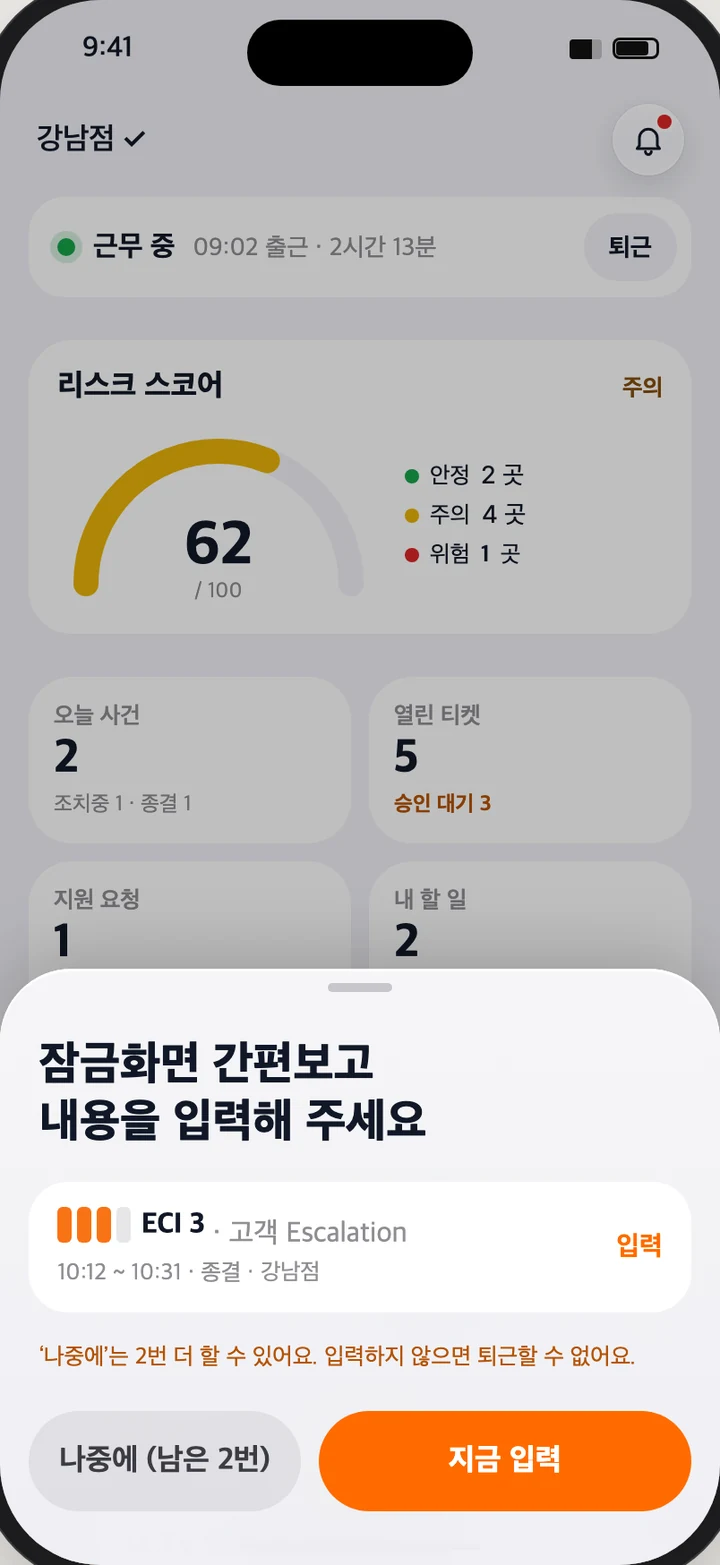
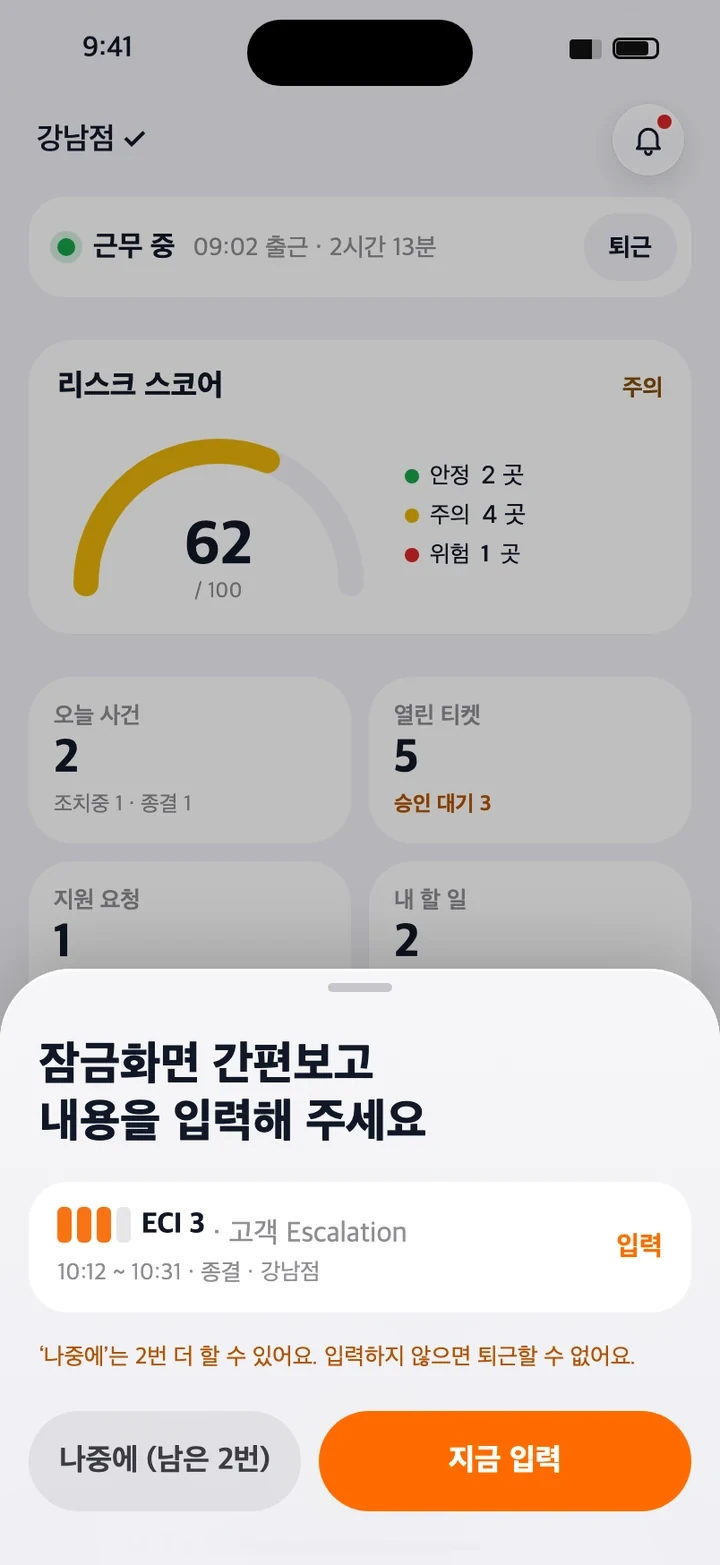
Publish Sentrix Link site 2026-11-09 13:14 KST

diff --git a/static/css/site.css b/static/css/site.css
@@ -137,7 +137,7 @@ button{font:inherit;color:inherit;cursor:pointer}
 }
 
 /* phone frame with a real iOS capture (1206x2622 → ratio 2.174) */
-.phone{width:var(--pw,340px);aspect-ratio:340/713.6;padding:calc(var(--pw,340px) * 0.032);border-radius:calc(var(--pw,340px) * 0.158);background:var(--phone);box-shadow:inset 0 0 0 1px var(--phone-edge),0 30px 60px rgba(17,24,42,0.14);flex:none}
+.phone{width:var(--pw,340px);height:calc(var(--pw,340px) * 713.6 / 340);padding:calc(var(--pw,340px) * 0.032);border-radius:calc(var(--pw,340px) * 0.158);background:var(--phone);box-shadow:inset 0 0 0 1px var(--phone-edge),0 30px 60px rgba(17,24,42,0.14);flex:none}
 .phone img{width:100%;height:100%;border-radius:calc(var(--pw,340px) * 0.126);object-fit:cover}
 
 /* rule lists (three short facts under a line) */
@@ -305,10 +305,18 @@ a.bro:hover{color:var(--ink);box-shadow:inset 0 0 0 2px var(--ink)}
 /* 「엑셀 그대로」: crops of the real roster Excel drawn with its own formats (tools/excel-table.py),
    each paired with the Sentrix HR screen it turns into. Pins sit on their own layer (site.js places them). */
 .xlc{display:flex;flex-direction:column;gap:48px}
-.xlc__row{display:grid;grid-template-columns:minmax(0,1.45fr) 32px minmax(0,1fr);gap:24px;align-items:start}
+.xlc__row{display:grid;grid-template-columns:minmax(0,1fr) 32px minmax(0,1fr);gap:24px;align-items:center}
 .xlc__row > *{min-width:0}
 .xlc__xl{gap:16px}
 .xlc__row .cmp__arrow{align-self:center}
+/* 넓은 화면: 엑셀과 Sentrix 화면을 같은 폭 · 같은 가운데 줄에 두고, 번호 설명은 아래 한 줄로 뺀다 */
+@media (min-width:1280px){
+  .xlc__row .xlc__xl{display:contents}
+  .xlc__row .xwin,.xlc__row .xl-src{grid-column:1}
+  .xlc__row .xl-notes{grid-column:1/-1;grid-row:2;grid-template-columns:repeat(auto-fit,minmax(260px,1fr))}
+  .xlc__row .cmp__arrow{grid-column:2;grid-row:1}
+  .xlc__row > figure{grid-column:3;grid-row:1}
+}
 .xwin{border-radius:10px;overflow:hidden;background:#FFFFFF;box-shadow:0 0 0 1px var(--line),0 24px 48px rgba(17,24,42,0.10)}
 .xwin__bar{height:30px;display:flex;align-items:center;gap:6px;padding:0 12px;background:#2B2B2B}
 .xwin__bar i{width:10px;height:10px;border-radius:50%;background:#FF5F57}

diff --git a/static/css/home.css b/static/css/home.css
@@ -184,10 +184,12 @@ br.m,.m{display:none}
 
 /* roles */
 .roles__in{gap:40px}
-.tabs{display:flex;gap:32px;border-bottom:1px solid var(--line);overflow-x:auto;scrollbar-width:none}
+.tabs{padding-left:6px;margin-left:-6px;display:flex;gap:20px;border-bottom:1px solid var(--line);overflow-x:auto;scrollbar-width:none}
 .tabs::-webkit-scrollbar{display:none}
-.tabs [role="tab"]{flex:none;height:52px;padding:0 2px;margin-bottom:-1px;border:0;border-bottom:2px solid transparent;background:transparent;color:var(--muted-2);font-size:17px;font-weight:600}
+.tabs [role="tab"]{flex:none;height:52px;padding:0 8px;margin-bottom:-1px;border:0;border-bottom:2px solid transparent;background:transparent;color:var(--muted-2);font-size:17px;font-weight:600}
 .tabs [role="tab"]:hover{color:var(--ink)}
+/* 탭 줄은 가로 스크롤이라 바깥 윤곽선이 위아래로 잘린다: 안쪽에 그린다 */
+.tabs [role="tab"]:focus-visible{outline:none;box-shadow:inset 0 0 0 2px var(--accent);border-radius:6px}
 .tabs [role="tab"][aria-selected="true"]{border-bottom-color:var(--ink);color:var(--ink);font-weight:700}
 .role{display:grid;grid-template-columns:420px minmax(0,1fr);column-gap:64px;align-items:center;min-height:646px}
 .role[hidden]{display:none}
@@ -209,7 +211,7 @@ br.m,.m{display:none}
 }
 @media (max-width:719px){
   .roles__in{gap:28px}
-  .tabs{gap:24px;margin:0 calc(var(--gutter) * -1);padding:0 var(--gutter)}
+  .tabs{gap:12px;margin:0 calc(var(--gutter) * -1);padding:0 var(--gutter)}
   .tabs [role="tab"]{height:48px;font-size:16px}
   .role{grid-template-columns:minmax(0,1fr);row-gap:32px}
   .role__phone{--pw:220px}

diff --git a/index.html b/index.html
@@ -206,7 +206,7 @@
 <div class="stack role__body">
 <div class="stack g8"><p class="role__h">팀장은 자기 지점을<br>현장과 책상에서 챙깁니다.</p><p class="role__sub">iPhone 앱과 PC 웹에서 씁니다.</p></div>
 <div class="role__cols">
-<div class="stack role__col"><img src="/static/img/sentrix-wordmark.png" alt="Sentrix에서" width="105" height="14"><ul><li>사건 보고와 상태 변경</li><li>요청 작성</li><li>새 iPhone 승인</li></ul></div>
+<div class="stack role__col"><img src="/static/img/sentrix-wordmark.png" alt="Sentrix에서" width="105" height="14"><ul><li>사건 보고와 상태 변경</li><li>요청 작성</li><li>새 기기 승인</li></ul></div>
 <div class="stack role__col"><img src="/static/img/sentrix-hr-wordmark.png" alt="Sentrix HR에서" width="139" height="14"><ul><li>근무표 엑셀 적용</li><li>예외 판정 · 잔업 승인</li><li>월말 제출</li></ul></div>
 </div>
 </div>
@@ -241,7 +241,7 @@
 <h2 class="h2" id="secTitle">보는 범위는 역할이 정합니다.</h2>
 <ul class="facts">
 <li><strong>역할별 조회 범위</strong><span>본사는 회사 전체, 팀장은 자기 지점만 봅니다.</span></li>
-<li><strong>승인된 기기로 로그인</strong><span>새 iPhone은 팀장 승인 뒤에 씁니다.</span></li>
+<li><strong>승인된 기기로 로그인</strong><span>새 기기는 팀장 승인 뒤에 씁니다.</span></li>
 <li><strong>위치는 출근 확인에</strong><span>근무지 반경 안에서 출근을 찍습니다.</span></li>
 </ul>
 <a class="more" href="/security/">보안과 데이터 자세히 보기</a>

diff --git a/contact/index.html b/contact/index.html
@@ -69,10 +69,6 @@
 </form>
 
 <div class="c-card c-done" role="status" hidden>
-<div class="stack c-done__steps">
-<div class="gdash c-steps4" aria-hidden="true"><span></span><span class="off"></span><span class="off"></span><span class="off"></span></div>
-<ol class="c-steps4 c-done__labels" aria-label="진행 단계"><li aria-current="step">접수</li><li>메일 답변</li><li>시연</li><li>견적·일정</li></ol>
-</div>
 <div class="stack c-done__head">
 <h2 class="c-done__h" id="doneTitle" tabindex="-1">문의가 접수되었습니다.</h2>
 <p class="c-done__reply"><span data-out="email"></span>으로 이틀 안에 답드립니다.</p>
@@ -83,7 +79,7 @@
 <div class="c-sum__row"><dt>관심 제품</dt><dd data-out="product"></dd></div>
 <div class="c-sum__row"><dt>문의 유형</dt><dd data-out="kind"></dd></div>
 </dl>
-<p class="small">메일이 보이지 않으면 스팸함도 확인해 주세요.</p>
+<p class="small">시연과 견적·일정도 이 메일로 이어서 안내합니다. 답장이 보이지 않으면 스팸함을 확인해 주세요.</p>
 </div>
 
 <div class="stack c-mat">

diff --git a/security/index.html b/security/index.html
@@ -37,7 +37,7 @@
 <p class="stub__note">역할과 조회 범위, 로그인과 기기 등록, 위치 정보, 기록과 보관, 외부로 나가는 정보를 이 페이지에서 자세히 설명할 예정입니다. 지금은 요약만 싣습니다.</p>
 <ul class="facts">
 <li><strong>역할별 조회 범위</strong><span>본사는 회사 전체, 팀장은 자기 지점만 봅니다.</span></li>
-<li><strong>승인된 기기로 로그인</strong><span>새 iPhone은 팀장 승인 뒤에 씁니다.</span></li>
+<li><strong>승인된 기기로 로그인</strong><span>새 기기는 팀장 승인 뒤에 씁니다.</span></li>
 <li><strong>위치는 출근 확인에</strong><span>근무지 반경 안에서 출근을 찍습니다.</span></li>
 </ul>
 <a class="more" href="/privacy/">개인정보처리방침 보기</a>

diff --git a/static/css/contact.css b/static/css/contact.css
@@ -36,11 +36,6 @@
 .c-seg label:has(input:focus-visible){outline:3px solid var(--accent);outline-offset:2px}
 
 /* done card */
-.c-done__steps{gap:10px}
-.c-steps4{grid-template-columns:repeat(4,minmax(0,1fr))}
-.c-done__labels{display:grid;gap:8px;font-size:15px;font-weight:600;color:var(--muted-2)}
-.c-done__labels li{min-width:0}
-.c-done__labels li[aria-current]{font-weight:700;color:var(--ink)}
 .c-done__head{gap:10px}
 .c-done__h{font-size:32px;line-height:1.3;font-weight:700;letter-spacing:-0.02em}
 .c-done__h:focus{outline:none}
@@ -96,7 +91,6 @@
   .c-card{padding:28px 20px;gap:24px}
   .c-card__h{font-size:24px}
   .c-two{grid-template-columns:minmax(0,1fr);row-gap:20px}
-  .c-done__labels{font-size:13px}
   .c-done__h{font-size:26px}
   .c-done__reply{font-size:16px}
   .c-sum__row{font-size:15px}
